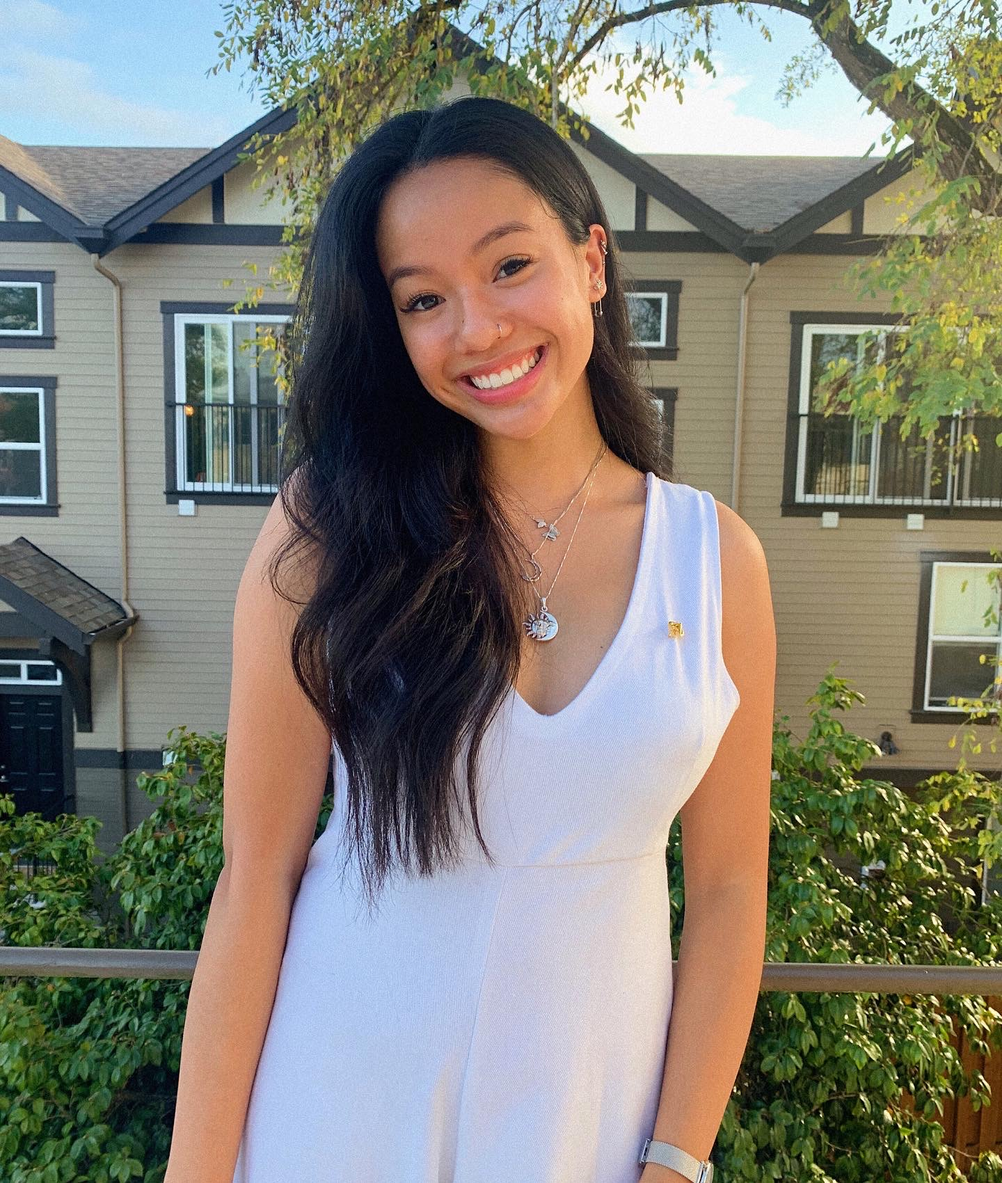
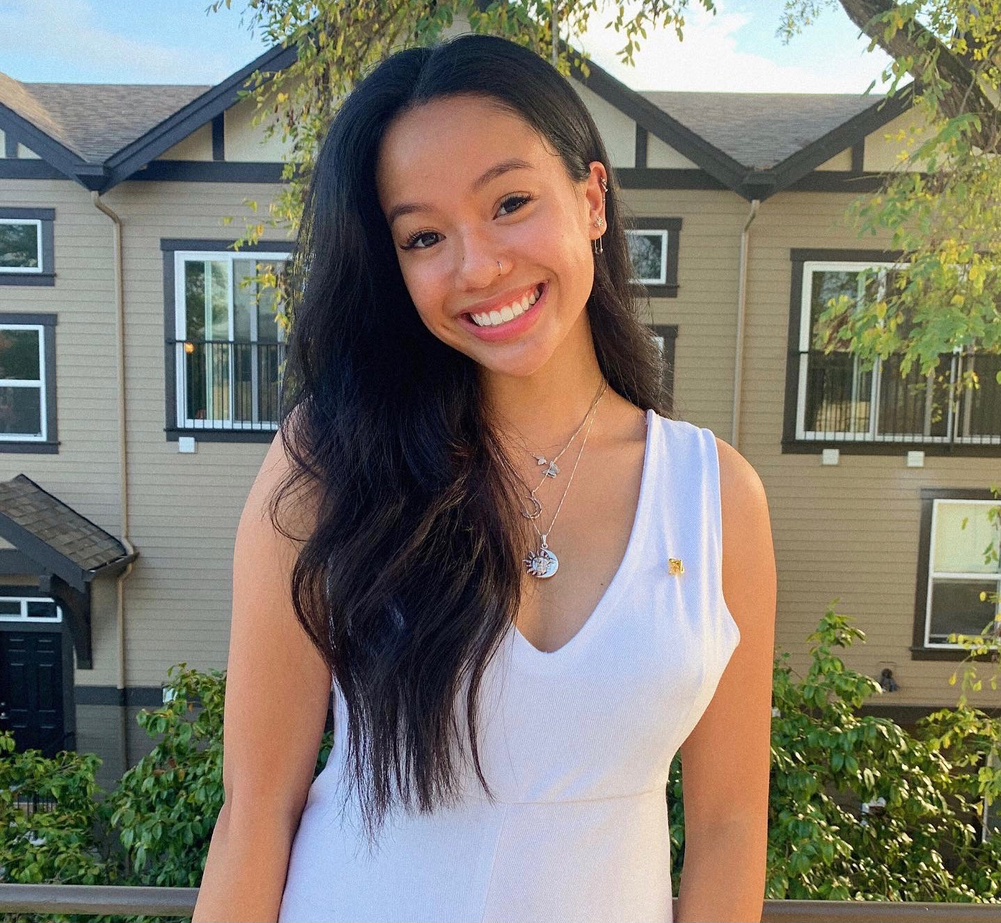
photos

diff --git a/public/index.html b/public/index.html
@@ -50,7 +50,7 @@
                 <h6>
                     <strong>Hannah Maung</strong>
                     <small class="text-muted">Junior, Computer Science applied with Business</small>
-                    <img src="Hannah.jpg" alt = "Hannah" width="500" height = "500">
+                    <img src="hannah.jpg" alt = "Hannah" width="200" height = "200">
                 </h6>
                 <p> I remember getting sent home from OSU right when the COVID-19 news came out like it was just yesterday. I remember all my friends and I had barely any idea what was happening, but we all said goodbye and planned to see each other back
                     at school in a couple weeks. Little did we know, we wouldn’t come back to school until six months later. My whole sophomore year spring term was all online. I had to attend all my lectures on zoom and do all my homework in a place
@@ -61,6 +61,7 @@
                 <h6>
                     <strong>Gretel Rajamoney</strong>
                     <small class="text-muted">Junior, Computer Science applied with Data Science</small>
+                    <img src="gretel.jpg" alt = "Hannah" width="500" height = "500">
                 </h6>
                 <p> Looking back to the finale of winter term when COVID-19 had began to take affect on all of our lives, seems like just a few short weeks ago. When in reality, it has been a shocking 9 months since were packing our bags ready to leave campus.
                     I remember packing a small suitcase planning to head to my home in Atlanta for spring break, unfortunately news that students would not be returning to campus was released two days after I had arrived at home. I had to leave all of
